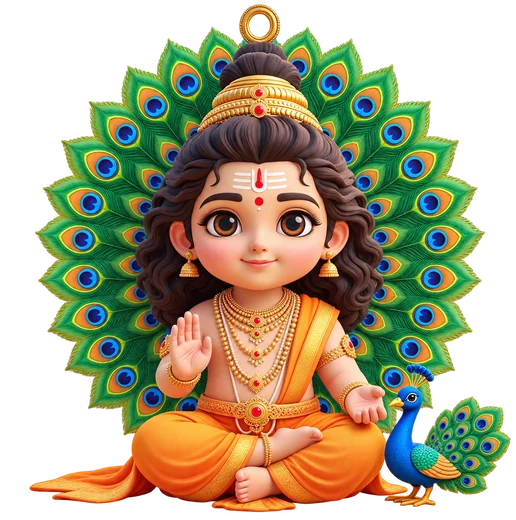
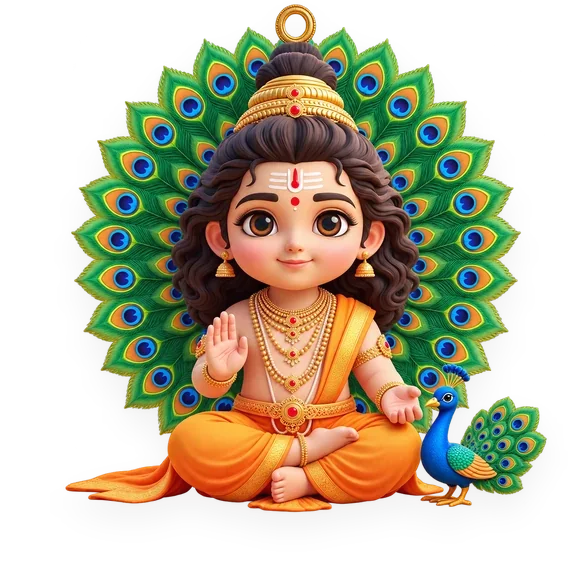
Coming soon badge and new wording

diff --git a/assets/pendulum.js b/assets/pendulum.js
@@ -15,6 +15,8 @@ const Pendulum = (() => {
   const TILT_SPRING = 160; // how firmly the charm lines up with the string
   const TILT_DAMPING = 14; // how quickly its wobble settles
   const MAX_STRETCH = 1.75; // the string never gets longer than this
+  const HAND = 700; // how firmly a held charm follows the hand (s⁻²)
+  const HAND_DAMPING = 2 * Math.sqrt(700); // critically damped: follows softly, never overshoots
   const SUBSTEP = 1 / 240;
 
   function create(length) {
@@ -27,6 +29,7 @@ const Pendulum = (() => {
       tilt: 0, // charm tilt (follows th)
       vt: 0,
       held: false,
+      target: null, // where the hand wants the charm: { th, r }
     };
   }
 
@@ -34,7 +37,15 @@ const Pendulum = (() => {
     const n = Math.max(1, Math.ceil(dt / SUBSTEP));
     const h = dt / n;
     for (let i = 0; i < n; i++) {
-      if (!p.held) {
+      if (p.held && p.target) {
+        // The charm follows the hand through a soft spring, so uneven
+        // mouse or finger updates still give an even glide, and letting go
+        // hands over a natural speed.
+        p.w += (HAND * (p.target.th - p.th) - HAND_DAMPING * p.w) * h;
+        p.vr += (HAND * (p.target.r - p.r) - HAND_DAMPING * p.vr) * h;
+        p.th += p.w * h;
+        p.r += p.vr * h;
+      } else if (!p.held) {
         // A string only pulls; when slack, the charm simply falls.
         const stretch = p.r - p.L;
         const spring = stretch > 0 ? -SPRING * stretch - STRETCH_DAMPING * p.vr : -0.5 * p.vr;
@@ -73,6 +84,9 @@ if (typeof document !== "undefined") {
   (() => {
     const stage = document.getElementById("stage");
     const ropePath = document.getElementById("rope");
+    // The image includes the charm's shadow: extra room on the sides and
+    // below. These are its proportions (see assets/murugan.webp).
+    const IMG = { width: 588, figure: 516, figureHeight: 520 };
     const charm = document.getElementById("charm");
     const glow = document.getElementById("glow");
     const hint = document.getElementById("hint");
@@ -81,6 +95,64 @@ if (typeof document !== "undefined") {
     const clamp = (v, lo, hi) => Math.min(hi, Math.max(lo, v));
 
     let p = null;
+
+    // The cord: a chain of points hanging between the top of the screen and
+    // the charm. The charm's motion comes from the smooth string above; the
+    // points only follow it, so the cord bends, trails and whips like the
+    // app's rope without ever making the charm jitter.
+    const LINKS = 12;
+    let chain = [];
+    function buildChain() {
+      const t = tip();
+      chain = [];
+      for (let i = 0; i <= LINKS; i++) {
+        const f = i / LINKS;
+        const x = anchor.x + (t.x - anchor.x) * f;
+        const y = anchor.y + (t.y - anchor.y) * f;
+        chain.push({ x, y, px: x, py: y });
+      }
+    }
+    function stepChain(dt) {
+      const n = Math.max(1, Math.ceil(dt / (1 / 120)));
+      const h = dt / n;
+      const g = 2400 * h * h;
+      const t = tip();
+      // A touch longer than the gap, so the cord keeps a little life in it.
+      const rest = Math.max(p.r, p.L * 1.04) / LINKS;
+      for (let k = 0; k < n; k++) {
+        for (let i = 1; i < LINKS; i++) {
+          const c = chain[i];
+          const vx = (c.x - c.px) * 0.985;
+          const vy = (c.y - c.py) * 0.985;
+          c.px = c.x;
+          c.py = c.y;
+          c.x += vx;
+          c.y += vy + g;
+        }
+        chain[0].x = anchor.x;
+        chain[0].y = anchor.y;
+        chain[LINKS].x = t.x;
+        chain[LINKS].y = t.y;
+        for (let it = 0; it < 10; it++) {
+          for (let i = 0; i < LINKS; i++) {
+            const a = chain[i];
+            const b = chain[i + 1];
+            const dx = b.x - a.x;
+            const dy = b.y - a.y;
+            const d = Math.hypot(dx, dy) || 1e-4;
+            if (d <= rest) continue; // a cord goes slack, it never pushes
+            const wa = i === 0 ? 0 : 1;
+            const wb = i + 1 === LINKS ? 0 : 1;
+            if (wa + wb === 0) continue;
+            const c = ((d - rest) / d) / (wa + wb);
+            a.x += dx * c * wa;
+            a.y += dy * c * wa;
+            b.x -= dx * c * wb;
+            b.y -= dy * c * wb;
+          }
+        }
+      }
+    }
     let anchor = { x: 0, y: -2 };
     let charmW = 0;
     let charmH = 0;
@@ -107,8 +179,8 @@ if (typeof document !== "undefined") {
         length = clamp((vh * 0.28) / 1.12, 115, 250);
         anchor = { x: vw * 0.72, y: -2 };
       }
-      charm.style.width = `${charmW}px`;
-      charmH = charm.naturalWidth ? (charm.naturalHeight / charm.naturalWidth) * charmW : charmW;
+      charm.style.width = `${(charmW * IMG.width) / IMG.figure}px`;
+      charmH = (charmW * IMG.figureHeight) / IMG.figure;
       glow.style.width = glow.style.height = `${charmW * 1.6}px`;
       if (!p) {
         p = Pendulum.create(length);
@@ -130,15 +202,14 @@ if (typeof document !== "undefined") {
 
     function draw() {
       const t = tip();
-      // A taut string is straight; a slack one sags a little.
-      const slack = Math.max(0, p.L - p.r);
-      if (slack > 0.5) {
-        const mx = (anchor.x + t.x) / 2;
-        const my = (anchor.y + t.y) / 2 + slack * 0.7;
-        ropePath.setAttribute("d", `M${anchor.x.toFixed(1)} ${anchor.y.toFixed(1)} Q${mx.toFixed(1)} ${my.toFixed(1)} ${t.x.toFixed(1)} ${t.y.toFixed(1)}`);
-      } else {
-        ropePath.setAttribute("d", `M${anchor.x.toFixed(1)} ${anchor.y.toFixed(1)} L${t.x.toFixed(1)} ${t.y.toFixed(1)}`);
+      let d = `M${chain[0].x.toFixed(1)} ${chain[0].y.toFixed(1)}`;
+      for (let i = 1; i < LINKS; i++) {
+        const mx = (chain[i].x + chain[i + 1].x) / 2;
+        const my = (chain[i].y + chain[i + 1].y) / 2;
+        d += ` Q${chain[i].x.toFixed(1)} ${chain[i].y.toFixed(1)} ${mx.toFixed(1)} ${my.toFixed(1)}`;
       }
+      d += ` L${t.x.toFixed(1)} ${t.y.toFixed(1)}`;
+      ropePath.setAttribute("d", d);
       const a = -p.tilt; // CSS turns clockwise
       charm.style.transform = `translate(${t.x}px, ${t.y}px) translate(-50%, -3px) rotate(${a}rad)`;
       const cx = t.x - Math.sin(a) * charmH * 0.5;
@@ -171,9 +242,12 @@ if (typeof document !== "undefined") {
       last = now;
       air();
       if (!reduce.matches || drag) Pendulum.step(p, dt);
+      stepChain(dt);
       flash = Math.max(0, flash - dt * 1.3);
       draw();
-      quiet = !drag && Pendulum.energy(p) < 0.004 && flash === 0 ? quiet + 1 : 0;
+      let cordMotion = 0;
+      for (const c of chain) cordMotion = Math.max(cordMotion, Math.abs(c.x - c.px) + Math.abs(c.y - c.py));
+      quiet = !drag && Pendulum.energy(p) < 0.004 && cordMotion < 0.02 && flash === 0 ? quiet + 1 : 0;
       if (quiet > 30 || document.hidden) {
         running = false;
         scheduleGust();
@@ -245,10 +319,11 @@ if (typeof document !== "undefined") {
       hint.style.opacity = "0";
       const q = local(ev);
       const t = tip();
-      drag = { id: ev.pointerId, ox: t.x - q.x, oy: t.y - q.y, sx: ev.clientX, sy: ev.clientY, t0: performance.now(), moved: 0, samples: [] };
+      drag = { id: ev.pointerId, ox: t.x - q.x, oy: t.y - q.y, sx: ev.clientX, sy: ev.clientY, t0: performance.now(), moved: 0 };
       if (ALLOW_PULL) {
         charm.classList.add("dragging");
         p.held = true;
+        p.target = { th: p.th, r: p.r };
       }
       wake();
     });
@@ -260,32 +335,21 @@ if (typeof document !== "undefined") {
       const q = local(ev);
       const x = q.x + drag.ox - anchor.x;
       const y = Math.max(8, q.y + drag.oy - anchor.y);
-      const now = performance.now();
-      const th = Math.atan2(x, y);
-      const r = clamp(Math.hypot(x, y), p.L * 0.35, p.L * Pendulum.MAX_STRETCH);
-      drag.samples.push({ t: now, th, r });
-      while (drag.samples.length > 1 && now - drag.samples[0].t > 90) drag.samples.shift();
-      p.th = th;
-      p.r = r;
+      p.target = {
+        th: Math.atan2(x, y),
+        r: clamp(Math.hypot(x, y), p.L * 0.35, p.L * Pendulum.MAX_STRETCH),
+      };
     });
 
     const release = (ev) => {
       if (!drag || ev.pointerId !== drag.id) return;
       const tap = drag.moved < 8 && performance.now() - drag.t0 < 350;
-      // Carry the hand's speed over the last moment into the swing.
-      const s = drag.samples;
-      if (!tap && s.length > 1) {
-        const a = s[0];
-        const b = s[s.length - 1];
-        const dt = Math.max((b.t - a.t) / 1000, 0.016);
-        p.w = clamp((b.th - a.th) / dt, -6, 6);
-        p.vr = clamp((b.r - a.r) / dt, -1500, 1500);
-      } else if (!tap) {
-        p.w = 0;
-        p.vr = 0;
-      }
+      // The soft spring already carries the hand's speed; keep it sensible.
+      p.w = clamp(p.w, -6, 6);
+      p.vr = clamp(p.vr, -1500, 1500);
       drag = null;
       p.held = false;
+      p.target = null;
       charm.classList.remove("dragging");
       if (tap) bless();
       else wake();
@@ -326,12 +390,14 @@ if (typeof document !== "undefined") {
     });
     window.addEventListener("resize", () => {
       measure();
+      buildChain();
       draw();
       wake();
     });
 
     const start = () => {
       measure();
+      buildChain();
       draw();
       wake();
     };

diff --git a/index.html b/index.html
@@ -89,7 +89,7 @@
       border-radius: 50%;
       background: radial-gradient(circle, rgba(255, 196, 92, 0.5) 0%, rgba(255, 196, 92, 0) 65%);
       pointer-events: none;
-      will-change: transform;
+      will-change: transform, opacity;
     }
     .charm {
       pointer-events: auto;
@@ -103,8 +103,7 @@
       -webkit-user-drag: none;
       user-select: none;
       -webkit-tap-highlight-color: transparent;
-      filter: drop-shadow(0 14px 18px rgba(80, 45, 10, 0.22));
-      will-change: transform;
+      will-change: transform; /* its shadow is part of the image */
     }
     .charm.dragging { cursor: grabbing; }
     .spark {
@@ -140,33 +139,46 @@
     .brand { display: flex; flex-direction: column; gap: 0.15rem; }
     .brand-row { display: flex; align-items: center; flex-wrap: wrap; gap: 0.5rem 0.9rem; }
     .brand-name {
+      --brand-size: clamp(2.4rem, 5vw, 3.4rem);
       font-family: "Baloo 2", "Segoe UI", sans-serif;
       font-weight: 800;
-      font-size: clamp(2.4rem, 5vw, 3.4rem);
+      font-size: var(--brand-size);
+      white-space: nowrap;
       line-height: 1;
       letter-spacing: -0.02em;
       color: var(--saffron);
     }
     .brand-by { font-weight: 700; font-size: 1rem; color: var(--muted); }
     .brand-by b { color: var(--saffron); }
+    /* "Coming soon" sits right after the o of Danglio: the same height as
+       that o (0.51 of the font size in Baloo 2) and on the same baseline. */
     .tag {
-      display: inline-flex;
-      align-self: flex-start;
-      align-items: center;
-      gap: 0.5rem;
-      margin: 0;
-      padding: 0.4rem 0.85rem;
+      display: inline-block;
+      overflow: hidden; /* makes its bottom edge sit on the text baseline */
+      vertical-align: baseline;
+      height: calc(var(--brand-size) * 0.51);
+      line-height: calc(var(--brand-size) * 0.51);
+      margin-left: calc(var(--brand-size) * 0.16);
+      padding: 0 0.6rem;
       border-radius: 999px;
       background: #fff;
-      box-shadow: 0 2px 10px rgba(120, 70, 20, 0.08);
+      box-shadow: 0 1px 6px rgba(120, 70, 20, 0.12);
+      font-family: "Nunito Sans", "Segoe UI", sans-serif;
+      font-size: 0.72rem;
       font-weight: 700;
-      font-size: 0.9rem;
+      letter-spacing: 0.01em;
       color: var(--peacock);
+      white-space: nowrap;
     }
     .tag::before {
       content: "";
-      width: 8px;
-      height: 8px;
+      display: inline-block;
+      width: 6px;
+      height: 6px;
+      margin-right: 0.35rem;
+      vertical-align: middle;
+      position: relative;
+      top: -1px;
       border-radius: 50%;
       background: var(--peacock);
       animation: pulse 1.6s ease-in-out infinite;
@@ -235,8 +247,7 @@
     <section class="copy">
       <div class="brand">
         <div class="brand-row">
-          <span class="brand-name">Danglio</span>
-          <span class="tag">Coming soon</span>
+          <span class="brand-name">Danglio<span class="tag">Coming soon</span></span>
         </div>
         <span class="brand-by">by install<b>n</b>go</span>
       </div>
@@ -253,7 +264,7 @@
   </div>
 
   <section class="stage" id="stage" aria-label="A charm hanging from the top of the screen. Pull it and let go, or tap it.">
-    <svg class="rope-svg" id="ropeSvg" aria-hidden="true"><path id="rope" d=""></path></svg>
+    <svg class="rope-svg" aria-hidden="true"><path id="rope" d=""></path></svg>
     <div class="glow" id="glow" aria-hidden="true"></div>
     <img class="charm" id="charm" src="/assets/murugan.webp" alt="Little Murugan charm" draggable="false">
     <p class="hint" id="hint">Pull it and let go</p>
